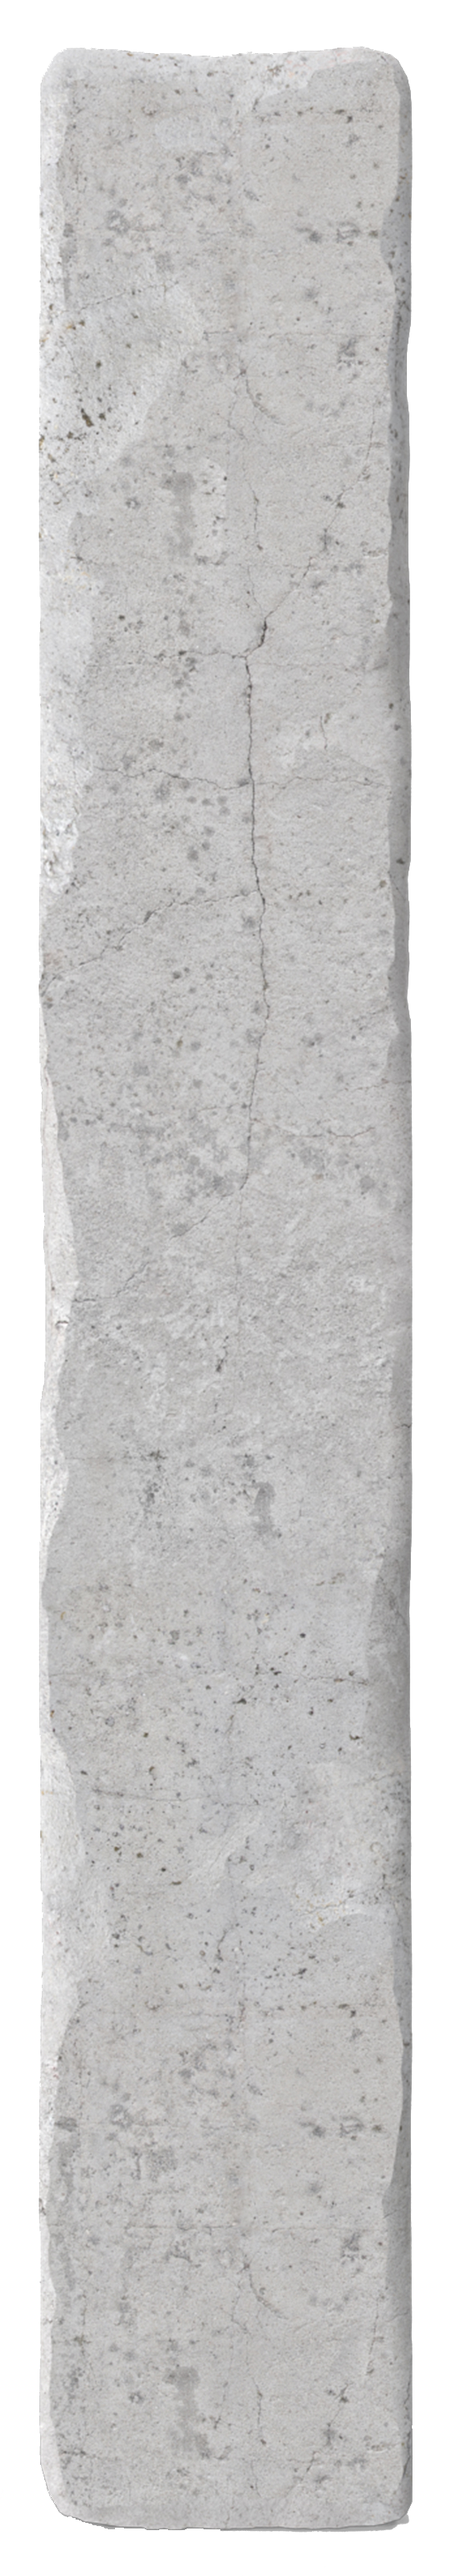
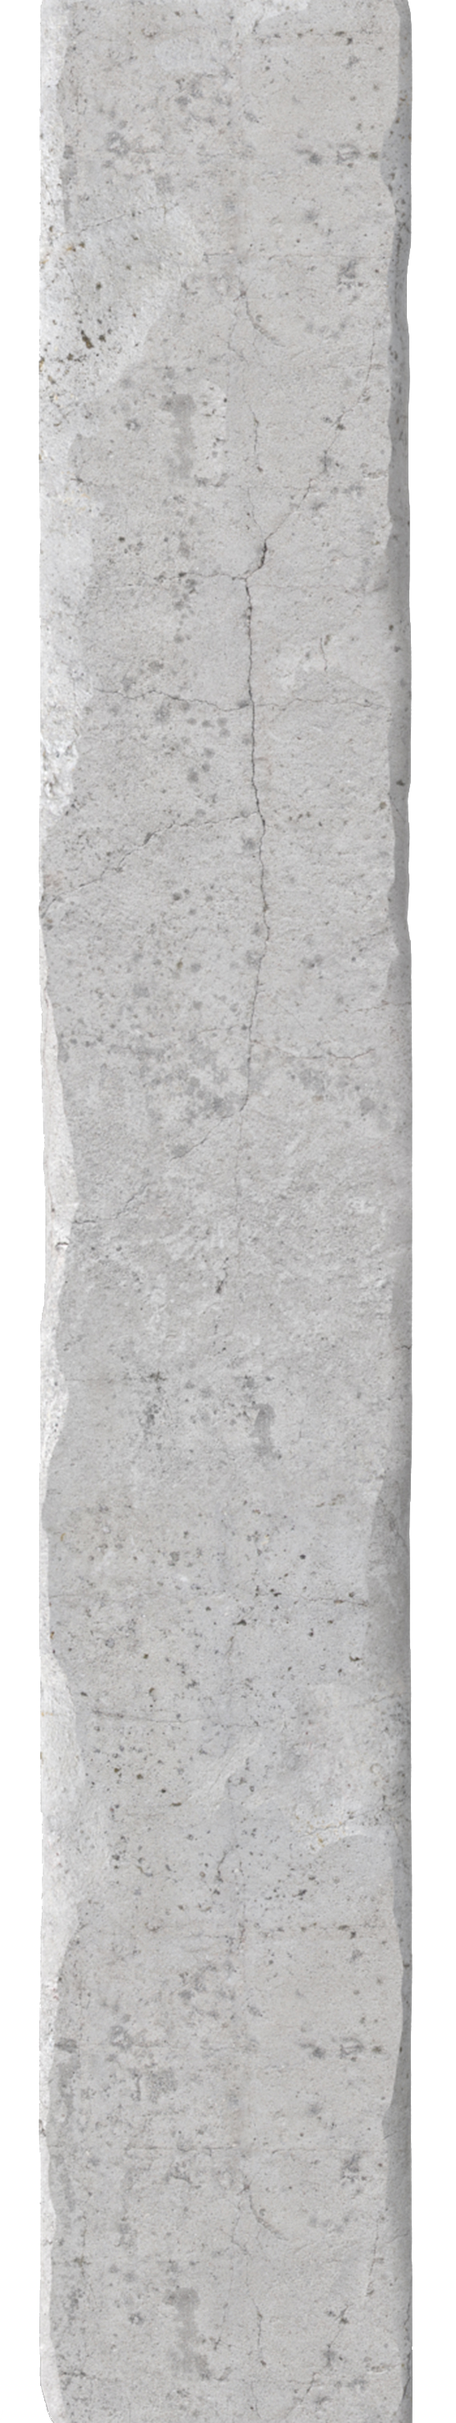
tk

diff --git a/js/script.js b/js/script.js
@@ -1,13 +1,13 @@
 $(document).ready(function(){
 
+var displacementSprite;
 
 const sizes = {
     width: window.innerWidth,
     height: window.innerHeight
 }
 
-  //Create a Pixi Application
-// let app = new PIXI.Application({width: 256, height: 256});
+
 let app = new PIXI.Application({ 
     width: sizes.width,         // default: 800
     height: sizes.height,        // default: 600
@@ -34,27 +34,54 @@ PIXI.loader
 
   function setup() {
 
+
+
+
     //Create the sprites
     let bg = new PIXI.Sprite(PIXI.loader.resources["../assets/industrial.jpg"].texture);
     let pl = new PIXI.Sprite(PIXI.loader.resources["../assets/pillar.png"].texture);
     
     bg.x = sizes.width/2;
     bg.y = sizes.height/2;
-    // bg.width = "auto";
-    // bg.height = sizes.height;
+    bg.width = sizes.width;
+    bg.height = sizes.width/1.46;
     bg.anchor.x = 0.5;
     bg.anchor.y = 0.5;
-    bg.scale.set(2, 2);
+    // bg.scale.set(2, 2);
     // bg.anchor.set(0.5);
 
 
-    pl.position.set(sizes.width/3, - sizes.height/5);
-    pl.scale.set(0.8, 0.8);
+    pl.position.set(sizes.width/3, 0);
+    pl.width = sizes.height/5.3;
+    pl.height = sizes.height;
+    // pl.scale.set(0.8, 0.8);
+
+
+
+
+    displacementSprite = PIXI.Sprite.from('../assets/displacement-sprite.png');
+    const displacementFilter = new PIXI.filters.DisplacementFilter(displacementSprite);
+
+    app.stage.addChild(displacementSprite);
+
+    bg.filters = [displacementFilter];
+
+    displacementFilter.scale.x = 20;
+    displacementFilter.scale.y = 20;
+    displacementSprite.anchor.set(0.5);
+
 
 
     //Add the bg to the stage
     app.stage.addChild(bg);
     app.stage.addChild(pl);
+
+
+    let bdy = document.getElementById("bdy")
+    bdy.addEventListener("mousemove", onPointerMove);
+    // app.stage
+    // .on('mousemove', onPointerMove)
+    // .on('touchmove', onPointerMove);
 
 
  
@@ -66,18 +93,22 @@ PIXI.loader
             
             if (detectMouseWheelDirection() == "down") {
                 
-                bg.scale.x += 0.00002 * delta;
-                bg.scale.y += 0.00002 * delta;
-    
-                pl.scale.x += 0.00004 * delta;
-                pl.scale.y += 0.00004 * delta;
+
+                if (pl.height < sizes.height*2) {
+                    bg.scale.x += 0.000038 * delta;
+                    bg.scale.y += 0.000038 * delta;
+        
+                    pl.scale.x += 0.00004 * delta;
+                    pl.scale.y += 0.00004 * delta;
+                }
+
 
             }else{
 
-                if (bg.scale.x > 1) {
+                if (pl.height > sizes.height + 20) {
 
-                    bg.scale.x -= 0.00002 * delta;
-                    bg.scale.y -= 0.00002 * delta;
+                    bg.scale.x -= 0.000038 * delta;
+                    bg.scale.y -= 0.000038 * delta;
         
                     pl.scale.x -= 0.00004 * delta;
                     pl.scale.y -= 0.00004 * delta;
@@ -95,6 +126,20 @@ PIXI.loader
 
 
   }
+
+
+
+//   end of setup
+
+
+
+
+
+
+function onPointerMove(eventData) {
+    console.log("move it");
+    displacementSprite.position.set(eventData.clientX - 25, eventData.clientY);
+}
 
 
 
